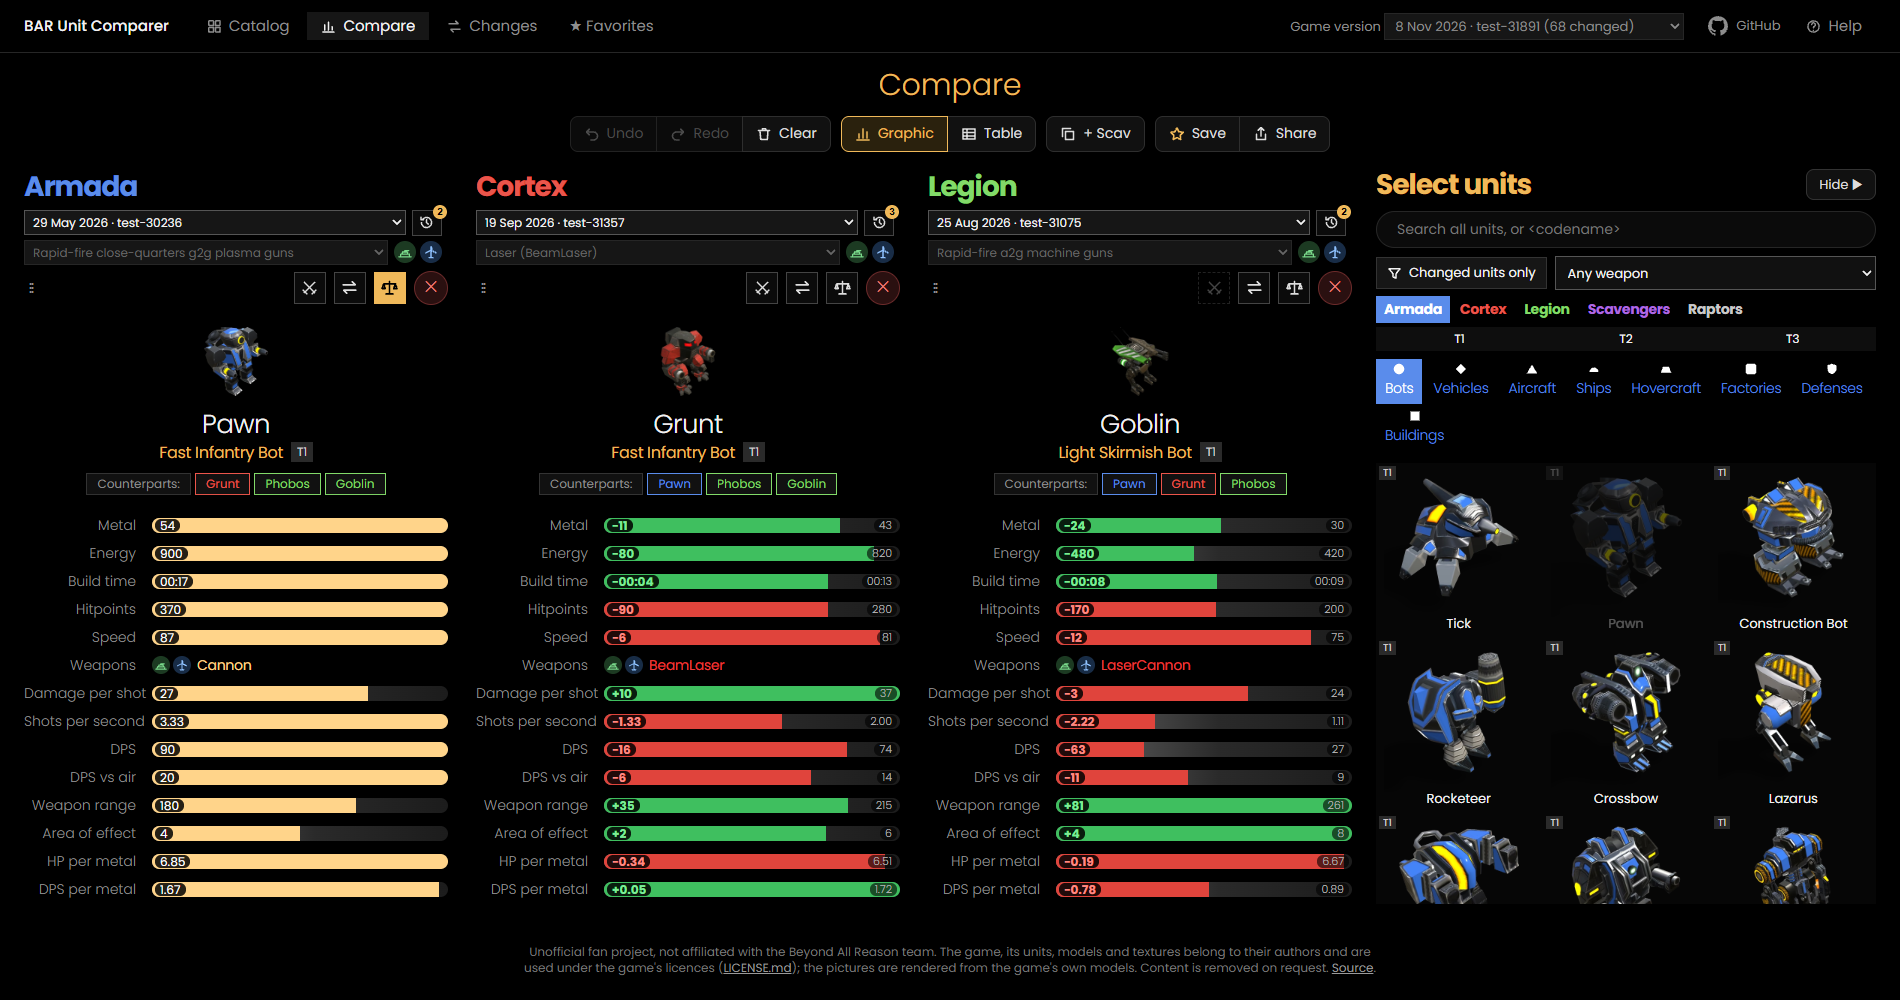
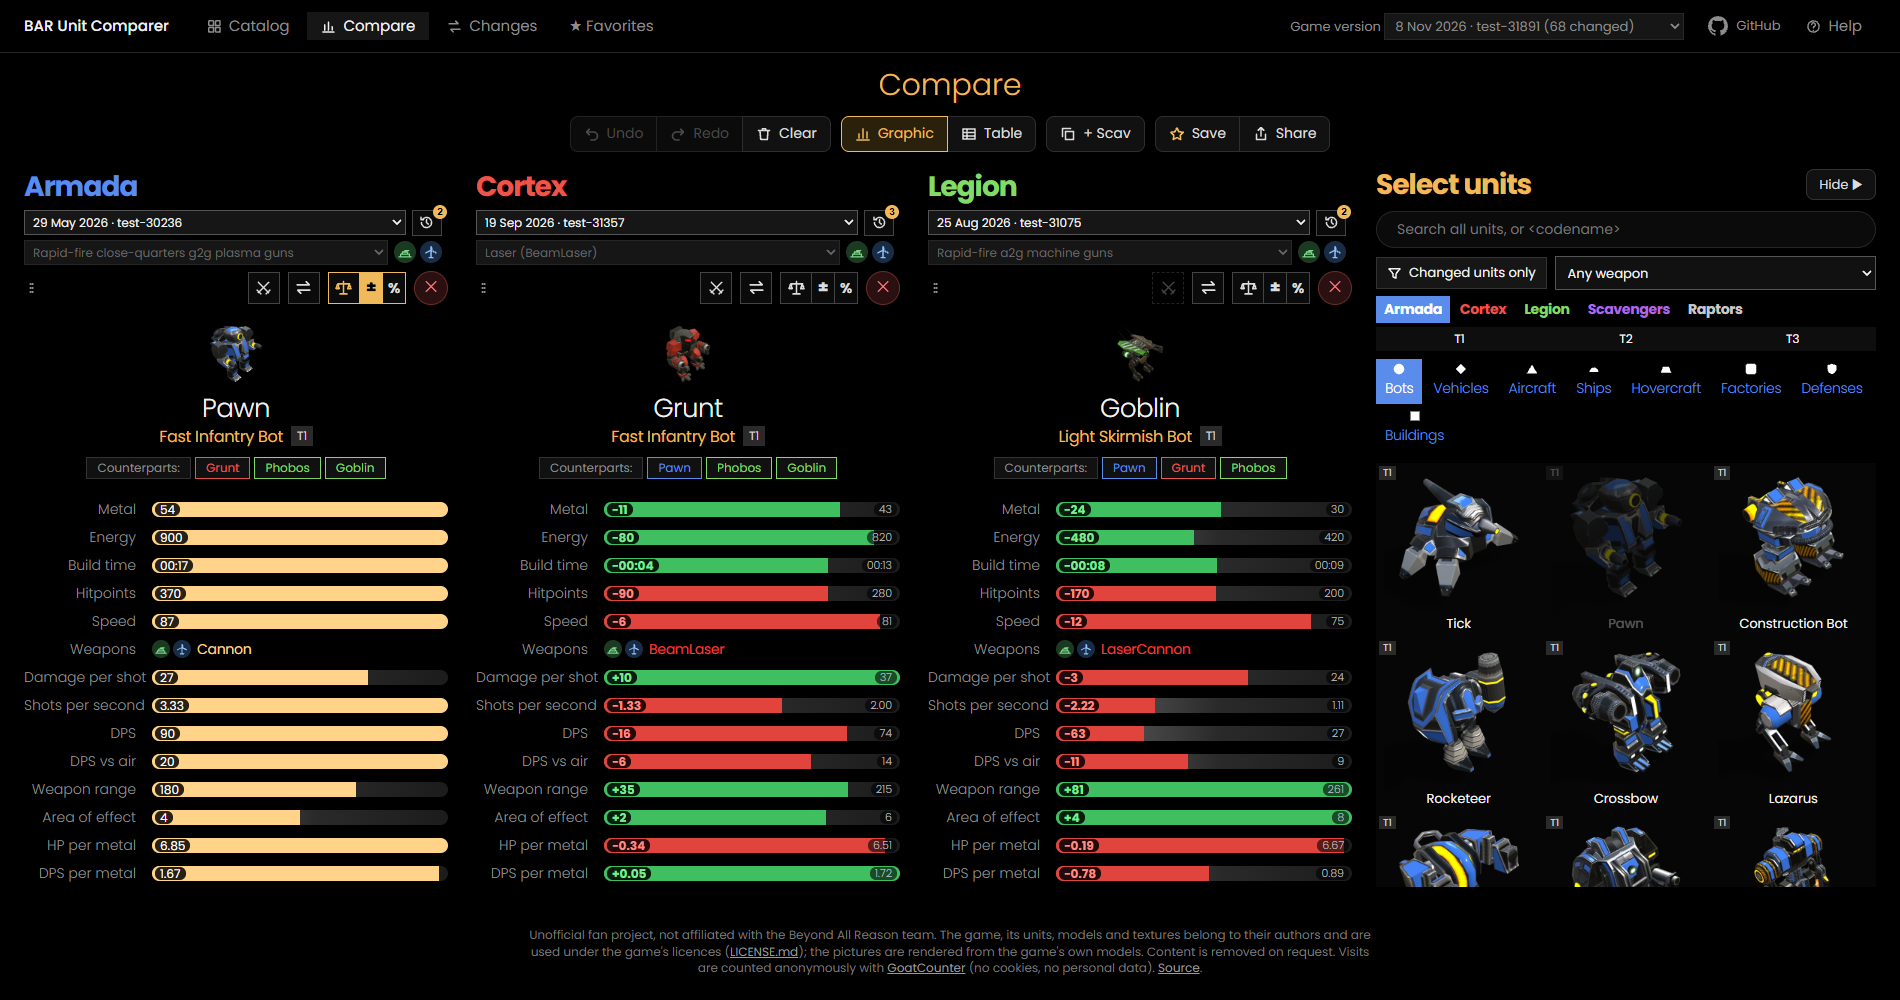
Ref block in the help, the menu of a phone, README, documents and screenshots
Claude-Session: https://claude.ai/code/session_01QeCYKoSgqsAqdpEWxxymXc

diff --git a/website/app.js b/website/app.js
@@ -88,8 +88,8 @@ const ICONS = {
   counterparts: svgIcon('M2 5.5h11.5l-3-3M14 10.5H2.5l3 3'),                              // arrows both ways: the same job in the other factions
   ref: svgIcon('M8 2v12M4.5 14h7M2.5 4.5h11M2.5 4.5L1 9h3zM13.5 4.5L12 9h3z'),           // a balance: the unit the others are weighed against
 };
-// the two balances of a column: a badge at the bottom right says how the difference is shown, ± as it is, % in percent (refBadge: the icon with its badge)
-const refBadge = pct => `<span class="ref-ico" data-b="${pct ? '%' : '±'}">${ICONS.ref}</span>`;
+// the balance with the sign of the mode beside it, ± (the difference as it is) or % (in percent): the help page and the menu of a phone, as in the block of a column
+const refBadge = pct => `<span class="ref-ico">${ICONS.ref}<i>${pct ? '%' : '±'}</i></span>`;
 ICONS.menu = svgIcon('M3 8h.01M8 8h.01M13 8h.01');                                         // three dots: the menu of a column (phone)
 ICONS.info = svgIcon('M8 7.2v4.3M8 4.6h.01M2 8a6 6 0 1 0 12 0A6 6 0 0 0 2 8z');           // i in a circle: all values of a unit
 ICONS.undo = svgIcon('M5.5 3L2.5 6l3 3M2.5 6h7a4 4 0 0 1 0 8H7');                          // the toolbar of the compare: undo, redo,
@@ -585,8 +585,8 @@ function renderHelp() {
       ${item('Ctrl+Z', 'takes back the last click (Ctrl+Y: repeats it).')}</ul>
     <h2>The compare</h2>
     <ul>${[
-      [`${refBadge(false)} Ref`, 'makes a unit the reference: the values of all other units turn green (better) or red (worse); equal values are greyed out, so you see at once where they differ. The other units show the difference to the reference instead of the value: <b>+</b> more, <b>&minus;</b> less, ±0 equal (green or red says whether that is better or worse: 86 metal more is +86 in red); the value itself stands small at the other end of the bar. The values of the reference itself are yellow. The column stays where it is; scrolled to the left edge, it stays in view as a narrow strip of its values.'],
-      [`${refBadge(true)} Ref %`, 'the same, but the differences are in percent of the value of the reference: 86 metal more than 54 is +159%. Press the other balance to switch between the two; the lit one pressed again switches the reference off.'],
+      [`${ICONS.ref} Ref`, 'the block of a column: the balance, <b>±</b> and <b>%</b>. <b>±</b> makes a unit the reference: the values of all other units turn green (better) or red (worse); equal values are greyed out, so you see at once where they differ. The other units show the difference to the reference instead of the value: <b>+</b> more, <b>&minus;</b> less, ±0 equal (green or red says whether that is better or worse: 86 metal more is +86 in red); the value itself stands small at the other end of the bar. The values of the reference itself are yellow. The column stays where it is; scrolled to the left edge, it stays in view as a narrow strip of its values.'],
+      [`${ICONS.ref} Ref %`, 'the same, but the differences are in percent of the value of the reference: 86 metal more than 54 is +159%. Press the other half to switch between ± and %; the lit one pressed again switches the reference off. The balance itself takes the mode chosen last (at first ±), or switches the reference off.'],
       [`${ICONS.counterparts} Counterparts`, 'adds the units of the other factions that do the same job (also under the picture: a click adds one).'],
       [`${ICONS.counters} Counters`, 'replaces the other columns with the units that are good against this unit (from the counter charts of beyondallreason.info).'],
       ['+ Scav', 'shows the Scavenger copy of every unit next to it. Scavengers are the computer enemies; their units are a bit stronger.'],
@@ -774,7 +774,7 @@ function emptyCompareHtml() {
   return `<div class="cmp-empty"><h3>Nothing to compare yet</h3>
     <ol class="steps"><li><b>Pick units</b> ${isNarrow() ? 'with <b>+ Add units</b> at the bottom' : `in the list ${state.pickOpen ? 'on the right' : '(open it with the arrow on the right)'}`}: every click adds a column. The search finds units of all factions.</li>
       <li><b>Read the bars:</b> each value is drawn against the largest one in its row.</li>
-      <li><b>Press Ref</b> (the balance icon) on one unit: the others show the difference to it (+ more, &minus; less), green if that is better, red if it is worse; equal values are greyed out. The balance with % shows the differences in percent.</li></ol>
+      <li><b>Press Ref</b> (the balance icon) on one unit: the others show the difference to it (+ more, &minus; less), green if that is better, red if it is worse; equal values are greyed out. The <b>%</b> beside it shows the differences in percent.</li></ol>
     ${examples.length ? `<p>Or start with an example:</p><div class="examples">${examples.map(([units, label]) => `<a class="example" href="#/compare/${units.map(esc).join(',')}?view=graphic">${units.slice(0, 4).map(n => pictureTag(n, '', state.units[n])).join('')}<span>${label}</span></a>`).join('')}</div>` : ''}
     <p class="hint">More: <a href="#/help">how the page works</a></p></div>`;
 }

diff --git a/website/style.css b/website/style.css
@@ -423,10 +423,9 @@ b.good { color: #5fdc7e; } b.bad { color: #ff6b62; }
 .c-tools .tool.active, .c-verrow .tool.active { border-color: var(--gold); color: var(--gold); background: #2a210d; }
 .c-tools .tool.ref.active { background: var(--gold); color: #000; }
 /* the balance with its badge at the bottom right, orange: ± the difference as it is, % in percent */
-.ref-ico { position: relative; display: inline-grid; place-items: center; line-height: 0; }
-.ref-ico::after { content: attr(data-b); position: absolute; right: -7px; bottom: -6px; min-width: 12px; height: 12px; padding: 0 1px; box-sizing: border-box; border-radius: 6px;
-  background: #f0862a; color: #000; font: 700 9px/12px system-ui, sans-serif; text-align: center; pointer-events: none; }
-.active .ref-ico::after, .m-item.on .ref-ico::after { box-shadow: 0 0 0 1px #000; }   /* lit: the orange badge with a black ring on the gold */
+.ref-ico { display: inline-flex; align-items: center; gap: 2px; white-space: nowrap; }   /* the balance and ± or % (help, the menu of a phone) */
+.ref-ico i { font-style: normal; font-weight: 700; font-size: 14px; line-height: 1; }
+.m-icon .ref-ico { gap: 1px; } .m-icon .ref-ico svg { width: 16px; height: 16px; } .m-icon .ref-ico i { font-size: 12px; }
 /* Ref as one block: the balance, its left half ± and its right half %; the borders shared, gold while it is on, the half chosen gold */
 .ref-grp { display: inline-flex; flex: none; }
 .ref-grp > .tool + .tool { margin-left: -1px; }

diff --git a/docs/website.md b/docs/website.md
@@ -87,7 +87,7 @@ As on the pictures: Armada blue (90, 140, 235), Cortex red (235, 85, 75), Legion
 
 ## 4. Compare
 
-**The link** `#/compare/<unit>,<unit>@<version>,<unit>~<weapon>,...?view=table&scav=1&ref=<unit>&versions=1` holds the units in their order, the view, **+ Scav**, the Ref and the filter; not the game version at the top (a page loaded starts with the newest; an old link's `v=` is ignored); `<unit>@<version folder>` is a column with a game version of its own, `~<weapon id>` a column that shows one weapon (`tokenOf`, `columnFromToken`). It is kept up to date without new history entries.
+**The link** `#/compare/<unit>,<unit>@<version>,<unit>~<weapon>,...?view=table&scav=1&ref=<unit>&diff=pct&versions=1` holds the units in their order, the view, **+ Scav**, the Ref (`diff=pct`: its differences in percent) and the filter; not the game version at the top (a page loaded starts with the newest; an old link's `v=` is ignored); `<unit>@<version folder>` is a column with a game version of its own, `~<weapon id>` a column that shows one weapon (`tokenOf`, `columnFromToken`). It is kept up to date without new history entries.
 
 **Layout:** the toolbar (`toolbarHtml`), the columns, at the right the unit selection (it can be folded away; remembered). Columns and selection fill the window: the pictures shrink (60 to 300 px) so that the page needs no scrollbar. Without units the page says what to do and offers examples (`emptyCompareHtml`).
 
@@ -101,10 +101,10 @@ As on the pictures: Armada blue (90, 140, 235), Cortex red (235, 85, 75), Legion
 
 **The weapons of a column** (`weaponSelect`, always shown below the version): one weapon: its name, grey; no weapon: "No weapons", grey; more than one in `weaponList`: a white list, **All weapons** (the totals, the default) or one weapon by its name (`weaponLabel`: the type in brackets if the name is one word, "2×" if mounted twice, "· D-gun" / nuke / anti-nuke / EMP for what the totals leave out). A chosen weapon (gold) puts its values in place of the totals: damage per shot, shots per second, DPS, DPS vs air, range, area of effect, DPS per metal (`withWeapon` in `unitOf`). It is part of the link, of Undo / Redo and of a favorite; the Scavenger copy and the columns added by Versions take the same weapon; a version of the unit without that weapon shows the totals.
 
-**The tools of a column** (`toolButton`): at the left the grip (drag to move; arrow keys), at the right **Counters** (swords), **Counterparts** (arrows), **Ref** (balance), × (remove). Versions, Counters and Counterparts are lit while what they added is shown; pressed again they take it out and bring back what they put aside (`toggleTool`; only the newest one, older ones with Undo).
+**The tools of a column** (`toolButton`): at the left the grip (drag to move; arrow keys), at the right **Counters** (swords), **Counterparts** (arrows), **Ref** (one block, `refButton`: the balance, **±**, **%**), × (remove). Versions, Counters and Counterparts are lit while what they added is shown; pressed again they take it out and bring back what they put aside (`toggleTool`; only the newest one, older ones with Undo).
 
 - **Ref:** one unit at a time. Every other column is coloured against it (green better, red worse; less is better for costs and build time; equal values grey) and shows the difference instead of the value (`valueText`: **+** more, **−** less, ±0; the colour says better or worse, so 86 metal more is **+86** in red), the value itself small beside it (`absText`), both in the tooltip and as a note on a click. The Ref column itself is yellow. It stays at its place; scrolled to the left edge it sticks there and shrinks to a strip with its values (see below).
-- **Versions:** adds every other version of the unit as columns right of it and makes it the Ref. A column shows the newest version of its unit that is not newer than its game version (`stateVersion`). Values that differ between versions of a unit are marked gold (`anchorOf`, `cellChanged`).
+- **± and %:** the left half of the Ref block (**±**) shows the difference as it is, the right half (**%**) in percent of the value of the Ref (`state.refPct`, `setRef`; from 10 % on whole numbers, below with one place after the point: 43 metal against 54 is **−20%**; the link: `diff=pct`). The other half switches the mode, the lit one pressed again switches the reference off. The balance takes the mode chosen last (`barunit.refMode` in `localStorage`, at first ±), or switches the reference off. While on, the block has a gold frame and the half chosen is gold. In the strip of a scrolled Ref only the balance and the half chosen are shown (in the table only the half).- **Versions:** adds every other version of the unit as columns right of it and makes it the Ref. A column shows the newest version of its unit that is not newer than its game version (`stateVersion`). Values that differ between versions of a unit are marked gold (`anchorOf`, `cellChanged`).
 - **Counters:** replaces the other columns with the units that counter this unit (`counters.json`; grey if none is known).
 - **Counterparts:** adds the units of the other factions with the same group in `counterparts.json`; also one button per counterpart under the description.
 
@@ -113,7 +113,7 @@ As on the pictures: Armada blue (90, 140, 235), Cortex red (235, 85, 75), Legion
 - **+ Scav:** the Scavenger copy of every unit right of it (about 10 % more cost, 25 % more hitpoints).
 - **Changed units only:** the catalog and the unit selection list only units with at least 2 versions (`versions=1`).
 - **Undo / Redo** (Ctrl+Z / Ctrl+Y, also in the catalog): every change of the columns, their order and the game versions, up to 100 steps. Ref, + Scav and the view are not steps.
-- **Save:** a favorite holds the units, + Scav and the Ref (`localStorage`, `barunit.favorites`); **Favorites** in the header lists them (load, delete); each entry is a link (`favLink`): the middle mouse button or Ctrl+click opens it in a new tab.
+- **Save:** a favorite holds the units, + Scav and the Ref with its kind, ± or % (`localStorage`, `barunit.favorites`); **Favorites** in the header lists them (load, delete); each entry is a link (`favLink`): the middle mouse button or Ctrl+click opens it in a new tab.
 - **Share:** copies the link and says so; on a touch device it opens the share menu (`navigator.share`).
 - **Sorting:** a click on the name of a value orders the columns by it, the best first, again: the other way round (`state.sort`, an Undo step).
 
@@ -152,7 +152,7 @@ As on the pictures: Armada blue (90, 140, 235), Cortex red (235, 85, 75), Legion
 `isNarrow()`: up to 900 px, `isPhone()`: up to 600 px; the rules at the end of `style.css`. The page is never wider than the screen.
 
 - **Up to 900 px:** the unit selection comes up from the bottom edge with **+ Add units** (**Done** closes it); a column is moved with two arrow buttons instead of the grip; the pictures are 200 px and the page scrolls.
-- **Up to 600 px:** two columns on the screen; the header without the word Favorites; the name of a value above its bar; the toolbar as icons in one line; the head of a column in one line: faction, **Ref** and a menu (three dots, 36 px); pictures 104 px (72 px in a window up to 500 px high).
+- **Up to 600 px:** two columns on the screen; the header without the word Favorites; the name of a value above its bar; the toolbar as icons in one line; the head of a column in one line: faction, the **Ref** block and a menu (three dots, 36 px; the menu has ± and % as two entries); pictures 104 px (72 px in a window up to 500 px high).
 - **The menu of a column** (`menuHtml`): a sheet from the bottom with one entry per tool, each with a line that says what it does: reference, all values, versions, counterparts, counters, move, the game version, remove.
 - **Catalog:** three units per row, the categories in one row to swipe; **Changes:** one column, the selects as wide as the screen; **Header:** two lines.
 

diff --git a/README.md b/README.md
@@ -30,7 +30,7 @@ What a patch changed: every unit whose values differ between two game versions, 
 
 | Above each unit | |
 |---|---|
-| **Ref** (balance) | this unit is the reference: the others show the difference to it (**+** more, **−** less), green if that is better, red if it is worse (more metal: **+** in red), equal values grey |
+| **Ref** (a block: balance, **±**, **%**) | **±**: this unit is the reference, the others show the difference to it (**+** more, **−** less), green if that is better, red if it is worse (more metal: **+** in red), equal values grey. **%**: the same in percent of the value of the reference (43 metal against 54: **−20%**). The other half switches the mode, the lit one pressed again switches the reference off; the balance takes the mode chosen last (at first ±) |
 | **Versions** (clock, beside the list of versions) | every other game version of this unit next to it, the changed values marked; the list (white: several versions) shows the unit as it was in one of them |
 | **Weapon list** (below the version) | one weapon: its name, grey; several weapons: a white list, **All weapons** (the default) or one of them, e.g. the laser of a commander against the laser of another one; D-gun, nukes, EMP and the high trajectory of a cannon that can switch between two are left out of All weapons but can be chosen. Two round signs right of it say what the weapon hits: ground and water (green) and aircraft (blue), dim if not |
 | **Counterparts** (arrows) | the units of the other factions that do the same job |
@@ -43,11 +43,11 @@ A lit icon pressed again takes back what it added. Drag a column by its grip to 
 | **Undo / Redo / Clear** | take back or repeat a change (also Ctrl+Z / Ctrl+Y; the badge says how many steps there are); Clear starts again (it asks first) |
 | **Graphic / Table** | bars with pictures, or a compact table |
 | **+ Scav** | the Scavenger copy of every unit next to it |
-| **Save / Share** | keep the selection as a favorite, or share its link (the link holds the units with their versions and weapons, the view, + Scav and the Ref). **Favorites** in the header lists them; the middle mouse button opens one in a new tab |
+| **Save / Share** | keep the selection as a favorite, or share its link (the link holds the units with their versions and weapons, the view, + Scav and the Ref with ± or %). **Favorites** in the header lists them; the middle mouse button opens one in a new tab |
 
 Click the name of a value (Metal, Hitpoints, ...) to sort the columns by it. Besides cost, hitpoints, speed and range the page shows **damage per shot**, **shots per second**, **DPS**, **DPS vs air** and the **area of effect**, and **HP per metal** and **DPS per metal**. The **game version** at the top shows the units as they were in an older patch; it always starts at the newest, and an older one is gold so that it is seen.
 
-**On a phone:** two units fit on the screen, swipe for more; **Ref** and a menu (three dots) with all tools in words; **+ Add units** opens the selection.
+**On a phone:** two units fit on the screen, swipe for more; the **Ref** block and a menu (three dots) with all tools in words; **+ Add units** opens the selection.
 
 <a href="https://ralf1108.github.io/BARUnitComparer/"><img src="docs/phone.png" width="260" alt="The compare page on a phone: two units, Pawn as the reference"></a>
 
